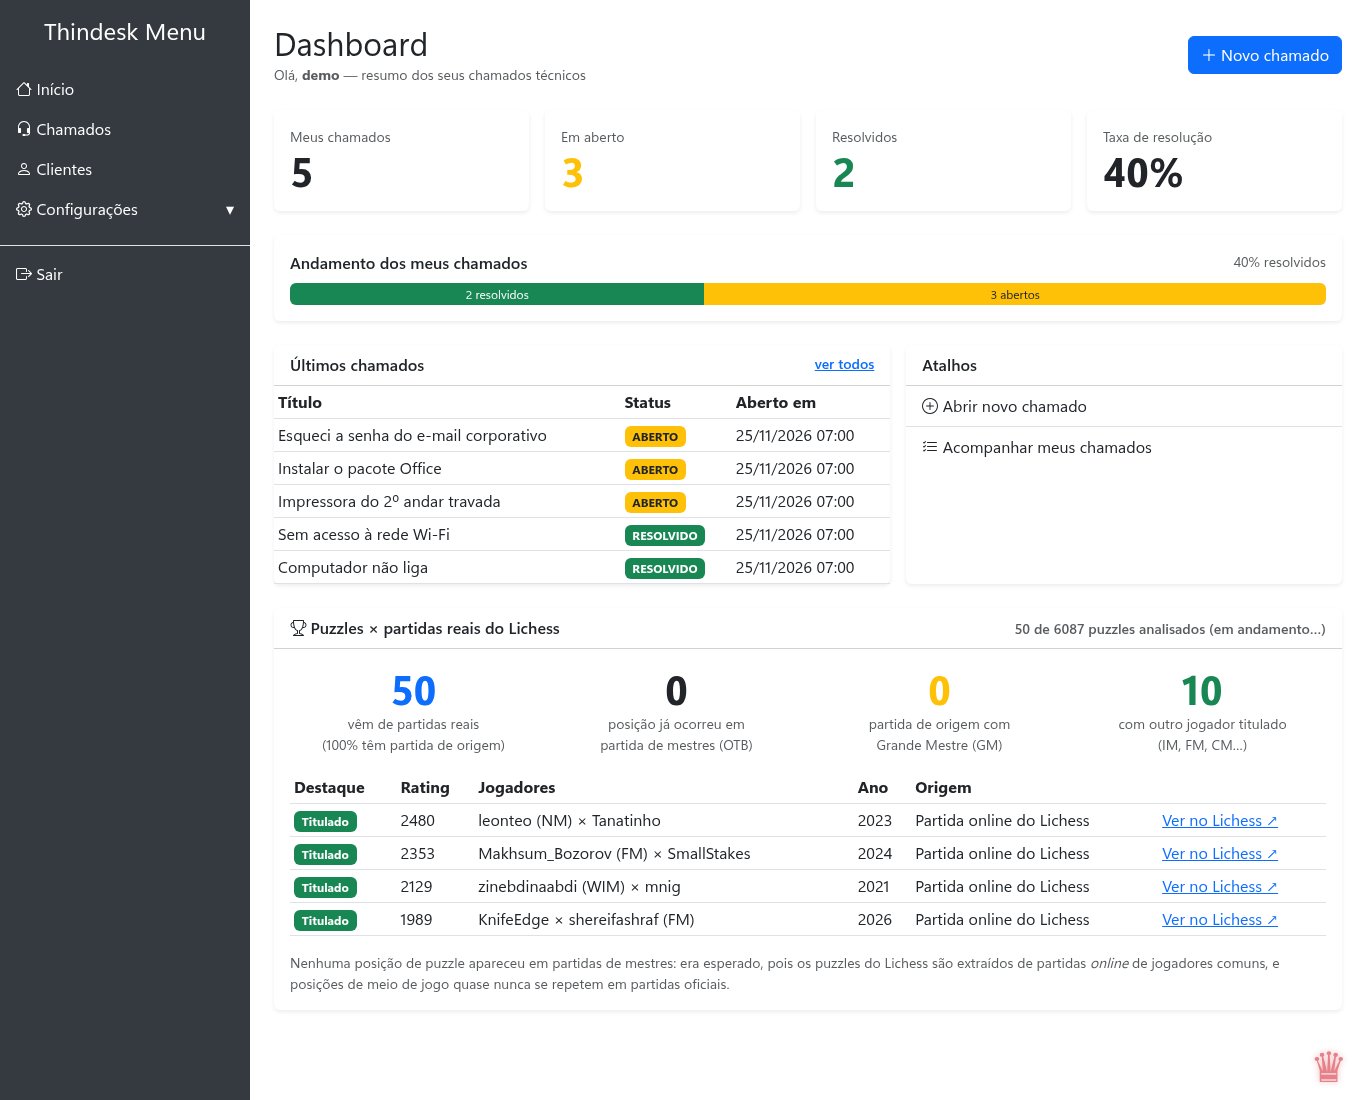
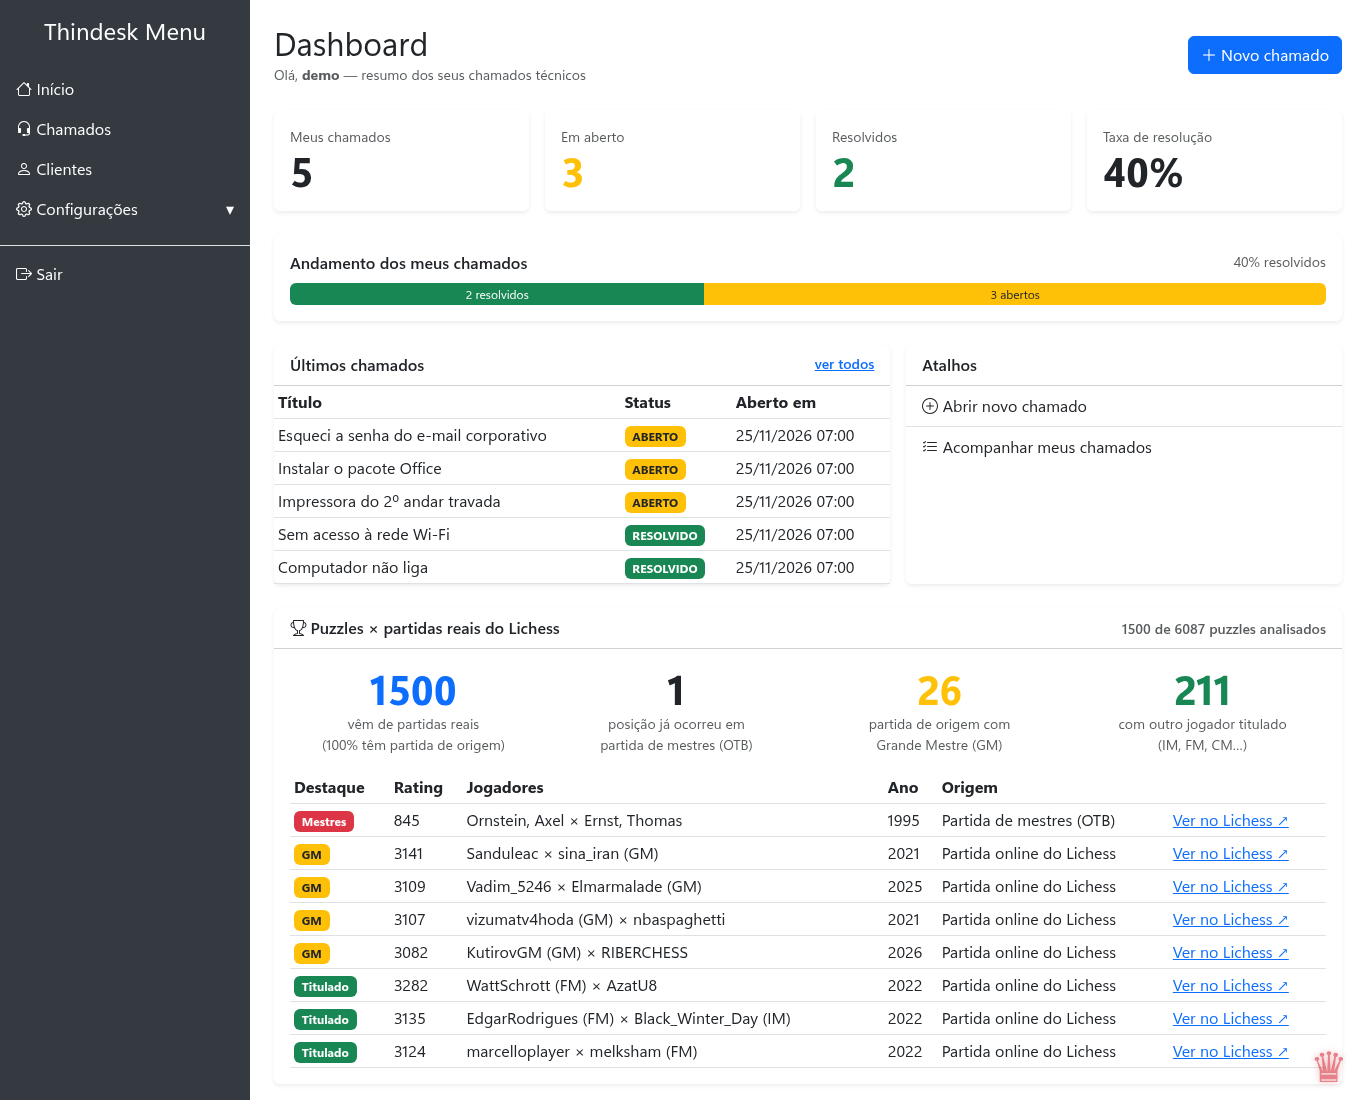
docs: documento de entrega, print final do dashboard e resultado real da análise do Lichess
Adiciona docs/ENTREGA.md (links, credenciais, versionamento, dashboard, roteiro de teste e arquitetura),
atualiza o print com a amostra completa (1.500 puzzles) e corrige o texto do README com os números medidos.

diff --git a/docs/ENTREGA.md b/docs/ENTREGA.md
@@ -1,0 +1,158 @@
+# Thindesk — Sistema de Controle de Chamados Técnicos
+
+**Aluno:** Miguel Santana da Costa
+**Atividade:** Software corporativo — controle de chamados técnicos (Thindesk)
+**Versão entregue:** `1.0.0-beta`
+
+---
+
+## 1. Links da entrega
+
+| Item | Link |
+| ---- | ---- |
+| **Aplicação no ar (deploy)** | **https://thindesk-santana.duckdns.org/** |
+| Repositório GitHub — Thindesk (aplicação web, login e dashboard) | https://github.com/MiguelSantanaDaCosta/Sistema-de-Login-Seguro |
+| Repositório GitHub — Microserviço de chamados (`ms-chamados`) | https://github.com/MiguelSantanaDaCosta/-Microservi-o-de-Chamados-T-cnicos- |
+
+O `README.md` de cada repositório traz a documentação técnica completa (versionamento, dashboard, deploy, configuração).
+
+### Credenciais de exemplo (qualquer pessoa pode entrar)
+
+| Conta | Usuário | Senha | Como entra |
+| ----- | ------- | ----- | ---------- |
+| Usuário comum | `demo` | `demo1234` | Somente usuário e senha |
+| Administrador | `demo2` | `demo2-1234` | Usuário e senha + **puzzle de xadrez** de nível admin (não envia email) |
+
+---
+
+## 2. Correspondência com os critérios da atividade
+
+| Critério | Onde está | Status |
+| -------- | --------- | ------ |
+| Link do GitHub com a aplicação de controle de chamados funcional | Seção 1 (dois repositórios públicos) | ✅ |
+| Semântica de versionamento no README | Seção 3 deste documento e seção **"Versionamento"** do `README.md` | ✅ |
+| Print de uma tela de dashboard (compatível com o projeto do `.zip`) | Seção 4 deste documento e seção **"Dashboard"** do `README.md` | ✅ |
+| Deploy funcionando, com login por qualquer pessoa e credencial de exemplo | Seção 1 e seção 5 | ✅ |
+
+---
+
+## 3. Versionamento
+
+**Versão atual: `1.0.0-beta`**
+
+O projeto segue o [Versionamento Semântico 2.0.0](https://semver.org/lang/pt-BR/), no formato:
+
+```
+MAJOR.MINOR.PATCH[-PRÉ-RELEASE]
+```
+
+| Parte | Quando incrementar | Exemplo |
+| ----- | ------------------ | ------- |
+| `MAJOR` | Mudança incompatível (ex.: troca do esquema de autenticação ou das coleções do banco) | `1.0.0` → `2.0.0` |
+| `MINOR` | Nova funcionalidade compatível (ex.: novo módulo ou tela) | `1.0.0` → `1.1.0` |
+| `PATCH` | Correção de bug compatível | `1.0.0` → `1.0.1` |
+| `-alpha` / `-beta` / `-rc.N` | Pré-release: `alpha` = em desenvolvimento, `beta` = funcional e em testes, `rc` = candidata a lançamento | `1.0.0-beta` → `1.0.0-rc.1` → `1.0.0` |
+
+A versão é declarada no `pom.xml` e cada lançamento é marcado com uma tag Git (`v1.0.0-beta`).
+
+| Versão | Descrição |
+| ------ | --------- |
+| `1.0.0-alpha` | Login seguro (JWT + BCrypt), perfis e cadastro com confirmação por email |
+| `1.0.0-beta` | Integração com o microserviço de chamados, telas de chamados, dashboard, perfis por dificuldade de puzzle, proteção anti-bot e deploy com HTTPS |
+
+---
+
+## 4. Dashboard
+
+Tela inicial do sistema (`/`), exibida após o login. Usa o mesmo layout (barra lateral + Bootstrap) do projeto de base, substituindo a página de boas-vindas.
+
+![Dashboard do Thindesk](https://raw.githubusercontent.com/MiguelSantanaDaCosta/Sistema-de-Login-Seguro/main/docs/img/dashboard.png)
+
+O dashboard mostra:
+
+- **Indicadores:** total de chamados do usuário, em aberto, resolvidos e taxa de resolução.
+- **Barra de andamento** entre resolvidos e abertos.
+- **Últimos chamados** com status e data de abertura.
+- **Fila da equipe** (apenas `TECNICO` e `ADMIN`): chamados abertos de todos os usuários, do mais antigo ao mais novo.
+- **Puzzles × partidas reais do Lichess:** cruza uma amostra dos puzzles de xadrez do sistema com dados públicos do Lichess, mostrando a partida de origem (jogadores, ano, link para ver no Lichess).
+
+Os dados dos chamados vêm do microserviço `ms-chamados`.
+
+---
+
+## 5. Como avaliar o sistema (roteiro de teste)
+
+1. Acesse **https://thindesk-santana.duckdns.org/** (o HTTP redireciona para HTTPS).
+2. Entre com **`demo` / `demo1234`** → o sistema abre o **dashboard**.
+3. Clique em **Novo chamado**, preencha título e descrição e salve. O chamado aparece em **Chamados** e no dashboard com status `ABERTO`.
+4. Para ver o **fluxo do técnico** (fila e resolução de chamados): saia e entre com **`demo2` / `demo2-1234`**. Após a senha, o sistema pede um **puzzle de xadrez** (segundo fator): arraste a peça para o melhor lance. Ao acertar, o login termina.
+5. No menu, abra **Fila técnica**, escolha um chamado e registre a solução. O status muda para `RESOLVIDO`, com técnico e data de resolução, e o chamado passa a ser imutável.
+
+> O puzzle da conta `demo2` tem nível de administrador (rating 1900–2400) e pode ser difícil. Se errar, o sistema permite novas tentativas e troca de puzzle. As demais contas usam o login completo: senha → puzzle → link enviado ao email do usuário.
+
+---
+
+## 6. O que o sistema faz
+
+### Chamados técnicos
+- **Abrir** chamado (título e descrição); solicitante, data e status `ABERTO` são definidos pelo servidor.
+- **Acompanhar** os próprios chamados; técnico e admin veem os de qualquer usuário.
+- **Resolver** (somente `TECNICO`/`ADMIN`): registra solução, técnico e data; depois de `RESOLVIDO` o chamado não muda mais.
+
+### Autenticação e segurança
+- **Login em 3 fatores:** senha (BCrypt) → puzzle de xadrez → link de confirmação enviado ao email do próprio usuário.
+- **Sessão** em JWT dentro de cookie `HttpOnly`.
+- **Perfis:** `USUARIO`, `TECNICO`, `ADMIN` (e `ROOT`, um recurso opcional, desligado por padrão). A dificuldade do puzzle aumenta conforme o perfil.
+- **Autorização em duas camadas:** regras de rota (`SecurityConfig`) e `@PreAuthorize` nos controllers.
+- **Proteção contra bots e IAs:** automação detectada bloqueia o IP por 1 hora (resposta HTTP 418).
+- **HTTPS** com certificado Let's Encrypt renovado automaticamente.
+
+---
+
+## 7. Arquitetura e tecnologias
+
+```
+Navegador ──HTTPS──► Caddy (proxy reverso, Let's Encrypt)
+                       │
+                       ▼
+                    Thindesk (Spring Boot 3.4 + Thymeleaf) ──JWT──► ms-chamados (Spring Boot 4, REST)
+                       │                                              │
+                       └────────────── MongoDB Atlas ─────────────────┘
+                                 (bancos thindesk e ms_chamados)
+```
+
+| Camada | Tecnologia |
+| ------ | ---------- |
+| Linguagem | Java 21 |
+| Aplicação web | Spring Boot 3.4, Spring Security 6, Thymeleaf, Bootstrap 5 |
+| Microserviço | Spring Boot 4, REST, Swagger/OpenAPI, auditoria JaVers |
+| Autenticação | JWT (jjwt), BCrypt, cookies HttpOnly |
+| Banco de dados | MongoDB Atlas |
+| Email | SMTP (Spring Mail) |
+| Deploy | AWS EC2, Docker e Docker Compose, Caddy |
+| Build | Maven (wrapper incluso) |
+
+**Como o deploy foi feito:** uma instância AWS EC2 (Ubuntu) executa três containers via Docker Compose — o Thindesk, o `ms-chamados` e o Caddy, que publica as portas 80/443 e emite o certificado HTTPS. O banco é o MongoDB Atlas (nuvem). Os dois serviços compartilham o mesmo `JWT_SECRET`, o que permite ao microserviço validar a identidade e os papéis do usuário.
+
+---
+
+## 8. Como executar localmente
+
+```bash
+git clone https://github.com/MiguelSantanaDaCosta/Sistema-de-Login-Seguro.git thindesk
+git clone https://github.com/MiguelSantanaDaCosta/-Microservi-o-de-Chamados-T-cnicos-.git ms-chamados
+
+cd thindesk
+cp .env.example .env        # preencher MONGO_URI, MONGO_URI_CHAMADOS e JWT_SECRET
+docker compose up -d --build
+```
+
+Detalhes completos (variáveis, Atlas, deploy na AWS) estão no `README.md` do repositório.
+
+---
+
+## 9. Observações
+
+- O sistema usa serviços gratuitos (EC2, Atlas M0, DuckDNS); o endereço público depende da instância permanecer ligada.
+- As contas de demonstração existem apenas para avaliação e têm acesso limitado ao próprio perfil.
+- O cruzamento com o Lichess usa somente dados públicos. Em uma amostra de 1.500 puzzles, 1 posição apareceu em partida de mestres, 26 partidas de origem têm Grande Mestre (GM) e 211 têm outro jogador titulado (IM, FM, CM…). O dashboard exibe esses números e o link de cada partida.

diff --git a/README.md b/README.md
@@ -1038,7 +1038,7 @@ O bloco inferior cruza uma amostra dos nossos puzzles com **dados públicos do L
 - **Banco de Mestres** (`explorer.lichess.org/masters`): a posição do puzzle já ocorreu em partida oficial (OTB)? Se sim, mostra jogadores, ano e o link.
 - **Classificação:** `MESTRES` (posição em partida de mestres) › `GM` › `TITULADO` (IM/FM/CM…) › `COMUM`. Cada destaque traz um link **"Ver no Lichess"**.
 
-**Resultado real (amostra):** as posições dos puzzles praticamente **não** aparecem em partidas de mestres (0 em 70 posições testadas), pois os puzzles saem de partidas *online* de jogadores comuns e posições de meio de jogo quase nunca se repetem em partidas oficiais. Cerca de 1 em cada 8 partidas de origem tem um jogador titulado. A ferramenta mede e mostra isso com honestidade — não inventa "partidas famosas".
+**Resultado real (amostra de 1.500 puzzles):** só **1** posição apareceu em partida de mestres (Ornstein × Ernst, 1995, rating 845) — as demais não, pois os puzzles saem de partidas *online* de jogadores comuns e posições de meio de jogo quase nunca se repetem em partidas oficiais. Já **237 (≈ 16 %)** das partidas de origem têm ao menos um jogador titulado, **26** delas com Grande Mestre (GM). Os números vêm da medição, não de uma lista curada de "partidas famosas".
 
 Configuração: `ANALISE_ENABLED`, `ANALISE_AMOSTRA` (padrão 1500), `ANALISE_INTERVALO_MS`.
 
